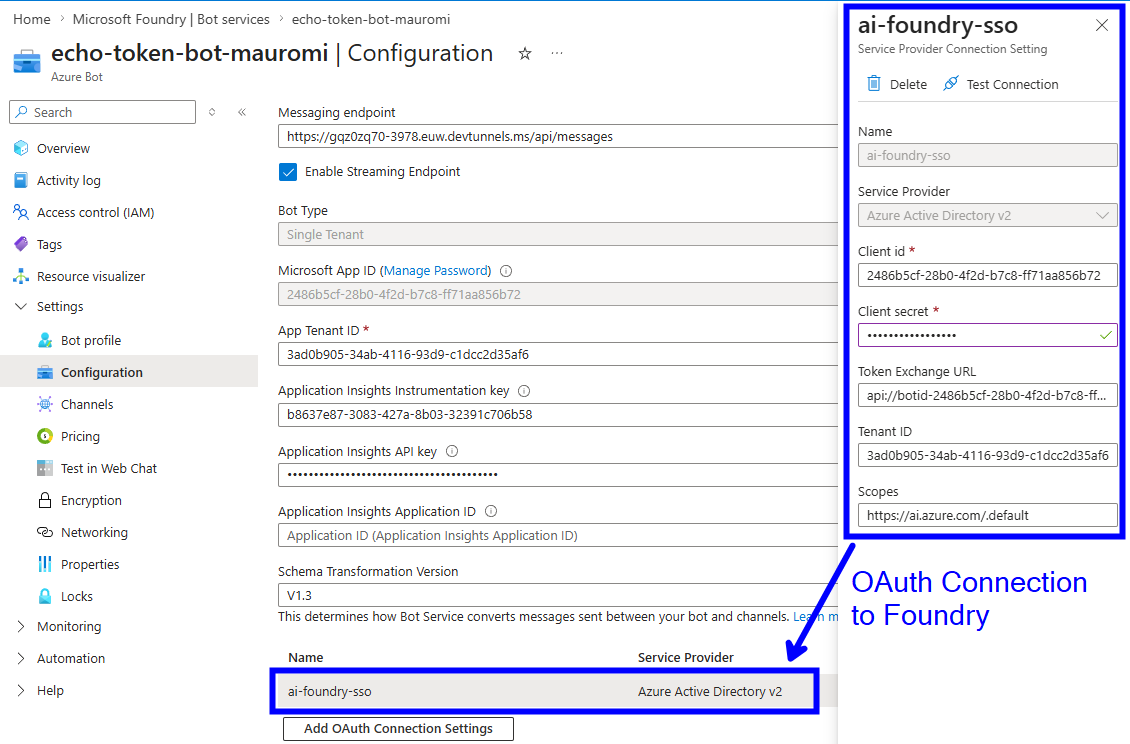
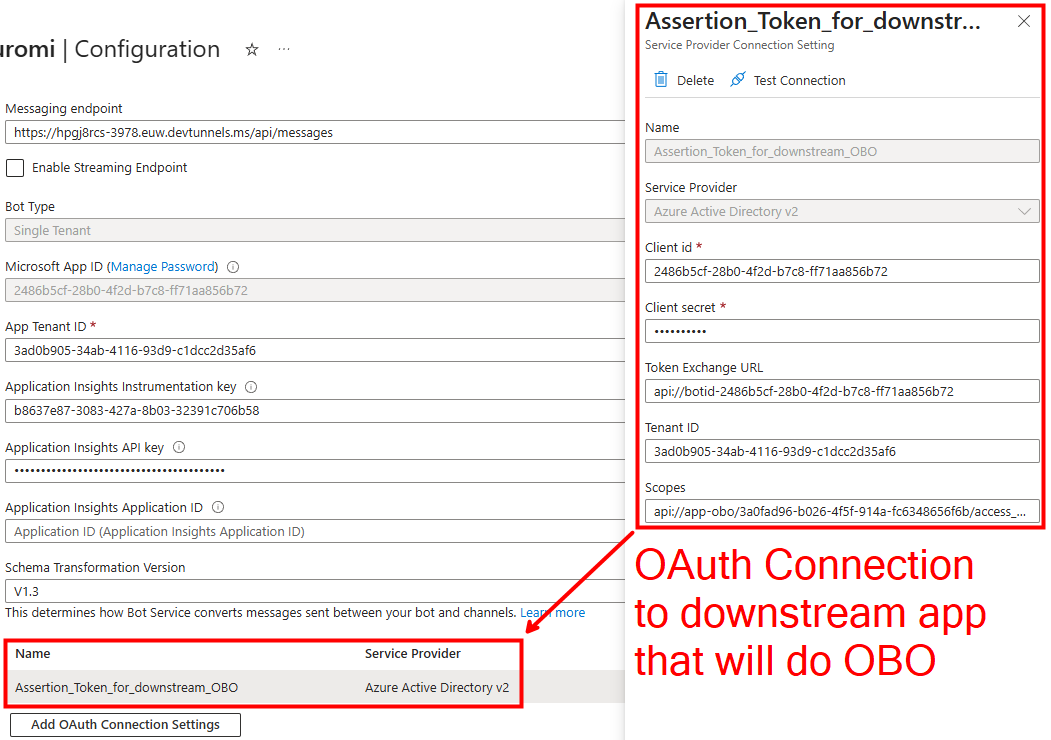
Fix (1D): OAuth Connection scope targets App-OBO, not Foundry

Changed region(s): [[0.0, 0.0, 1.0, 1.0]]

diff --git a/docs/04-token-b-foundry-access.md b/docs/04-token-b-foundry-access.md
@@ -68,14 +68,12 @@ This is what authorizes the OBO to produce the token with `aud = ai.azure.com` o
 
 Once the Bot's registered application is configured with `client_id`, `client_secret`, `client_id_uri`, and `scope`, we can create an **OAuth Connection** on the Azure Bot Service — an *AAD v2* connection in which we specify:
 
-- **Token Exchange URL** = the App ID URI of the **same** registered application (`api://botid-2486b5cf-28b0-4f2d-b7c8-ff71aa856b72`). This is the `aud` claim of the **incoming** SSO token generated toward the Azure Bot by Entra following Teams' request. It tells Entra: *"you must exchange (OBO) the token received for the Bot's registered application, building another one with this `aud`."* OBO works only if the app performing the exchange is the **same one that owns the `aud`** of the incoming token. Since the Token Exchange URL contains `botid-{Bot appId}`, the only app that owns that audience is the Bot's registered application. Therefore `client_id` + secret must be the Bot's. **You cannot separate them.**
-- `client_id`, `client_secret`, and `tenant_id` of the registered application associated with our custom bot web service, so it can authenticate as our registered application, which is a **confidential** application.
-- The **Scope** the bot must ask Entra to mint in the outgoing token, i.e. `https://ai.azure.com/.default` — Foundry's scope. This way Entra places `aud = https://ai.azure.com` and `scp = user_impersonation` in the **outgoing** token toward Foundry.
+- **Token Exchange URL** = the App ID URI of the **same** registered application (`api://botid-2486b5cf-28b0-4f2d-b7c8-ff71aa856b72`). This is the `aud` claim of the **incoming** SSO token generated toward the Azure Bot by Entra following Teams' request. It tells Entra: *"you must exchange (OBO) the token used to access the Bot's registered application, building another one with this `aud`."*
+- `client_id`, `client_secret`, and `tenant_id` of the registered application associated with our **bot app**. Indeed, OBO works only if the app performing the exchange **matches the one in the `aud`** of the token to be exchanged. Since the token Teams generates for the app carries, as its `aud`, the Application ID URI of the **bot app**, you need the `client_id` + secret of that same app.
+- The **Scope** the bot must ask Entra to mint in the outgoing token, i.e. `api://app-obo/3a0fad96-b026-4f5f-914a-fc6348656f6b/access_as_user` — the scope of the **application used to perform OBO**. This way Entra places the claims `aud = api://app-obo/3a0fad96-b026-4f5f-914a-fc6348656f6b` and `scp = access_as_user` in the **outgoing** token toward Foundry, so that the Foundry Hosted Agent can perform the OBO exchange to obtain the token toward the required downstream backend (e.g. MS Graph).
 
-This connection lets the Bot use the **Bot Framework Token Service** to perform a genuine OBO — swapping the Teams/Copilot user's SSO token for a token of the same user valid for Foundry (`aud = ai.azure.com`). The Bot Framework Token Service uses `client_id` and `client_secret` to authenticate as the bot's confidential application and ask Entra for the OBO exchange: *swap this Teams token for a Foundry token.*
-
-![Azure Bot — OAuth Connection (AAD v2) for Foundry](images/04-05-azure-bot-oauth-connection-foundry.png)
-*Azure Bot — OAuth Connection (AAD v2) for Foundry*
+![Azure Bot — OAuth Connection (AAD v2): the App-OBO scope](images/04-05-azure-bot-oauth-connection-foundry.png)
+*Azure Bot — OAuth Connection (AAD v2): Token Exchange URL = the bot app; Scope = `api://app-obo/3a0fad96-…/access_as_user`*
 
 > **Note — interactive OAuth without SSO is a different case.** With the classic "sign-in card" of the auth-code flow, the `client_id` + secret may belong to **any** registered application in the tenant, provided it: (a) has the Bot Token Service redirect URI `https://token.botframework.com/.auth/web/redirect`; and (b) has the required API permissions/scopes (the *Scopes* field) with consent. Only there can the two apps be separate (Bot app ≠ connection app). For the **SSO path** described here, they must be the **same**.
 

diff --git a/CHANGELOG.md b/CHANGELOG.md
@@ -9,6 +9,12 @@ and this project uses simple, dated version tags (`v1.0`, `v1.1`, …).
 > Changes are additive by default; any rename, reorder, split, or merge is called
 > out explicitly below.
 
+## [v1.1] — 2026-07-02
+
+### Changed
+- **Chapter 04 §(1D) — OBO via the Bot's OAuth Connection.** Corrected the scope the OAuth Connection requests: it targets the **App-OBO** application (`api://app-obo/3a0fad96-b026-4f5f-914a-fc6348656f6b/access_as_user`), **not** Foundry (`https://ai.azure.com/.default`). Consequently the outgoing token now carries `aud = api://app-obo/3a0fad96-…` and `scp = access_as_user`, so the Foundry Hosted Agent can perform the downstream OBO exchange (e.g. toward Microsoft Graph).
+- Reworded the *Token Exchange URL* and `client_id` bullets in §(1D) accordingly, and **replaced the OAuth Connection screenshot** (`docs/images/04-05-azure-bot-oauth-connection-foundry.png`) with the corrected one.
+
 ## [v1.0] — 2026-07-01
 
 ### Added
